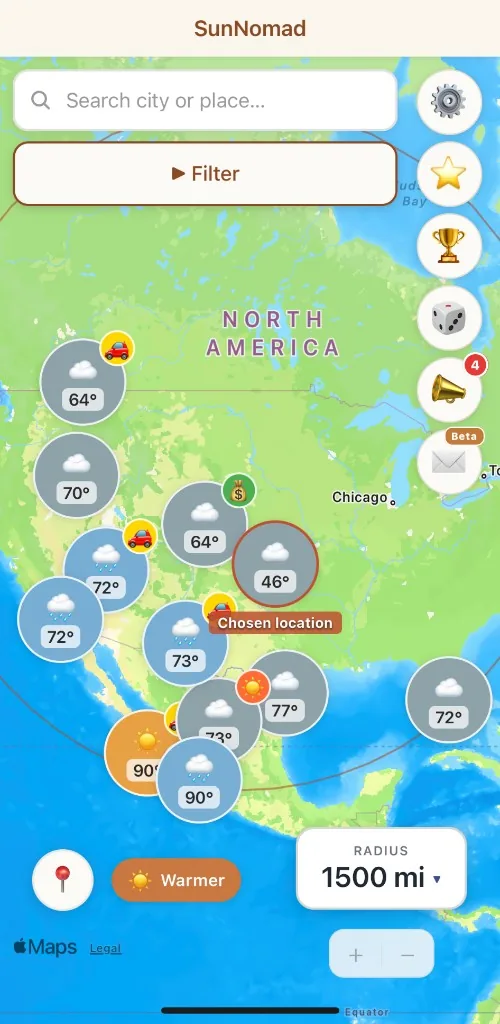
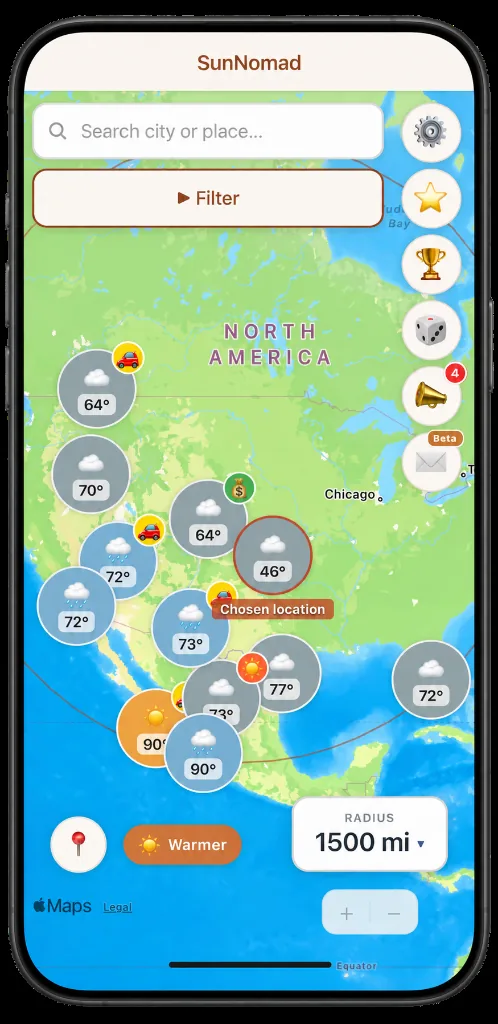
Replace badges intro screenshot

diff --git a/badges/index.html b/badges/index.html
@@ -134,9 +134,9 @@
   <figure class="bd-hero">
     <figcaption>Ever wondered what those little icons on the SunNomad map mean? Here&rsquo;s how to read them.</figcaption>
     <img
-      src="/assets/badges/map-symbols.webp?v=20261112c"
+      src="/assets/badges/map-symbols.webp?v=20261112d"
       alt="SunNomad map with weather badges on destinations — car, money bag, and rain cloud"
-      width="500"
+      width="498"
       height="1024"
       loading="eager"
     />
